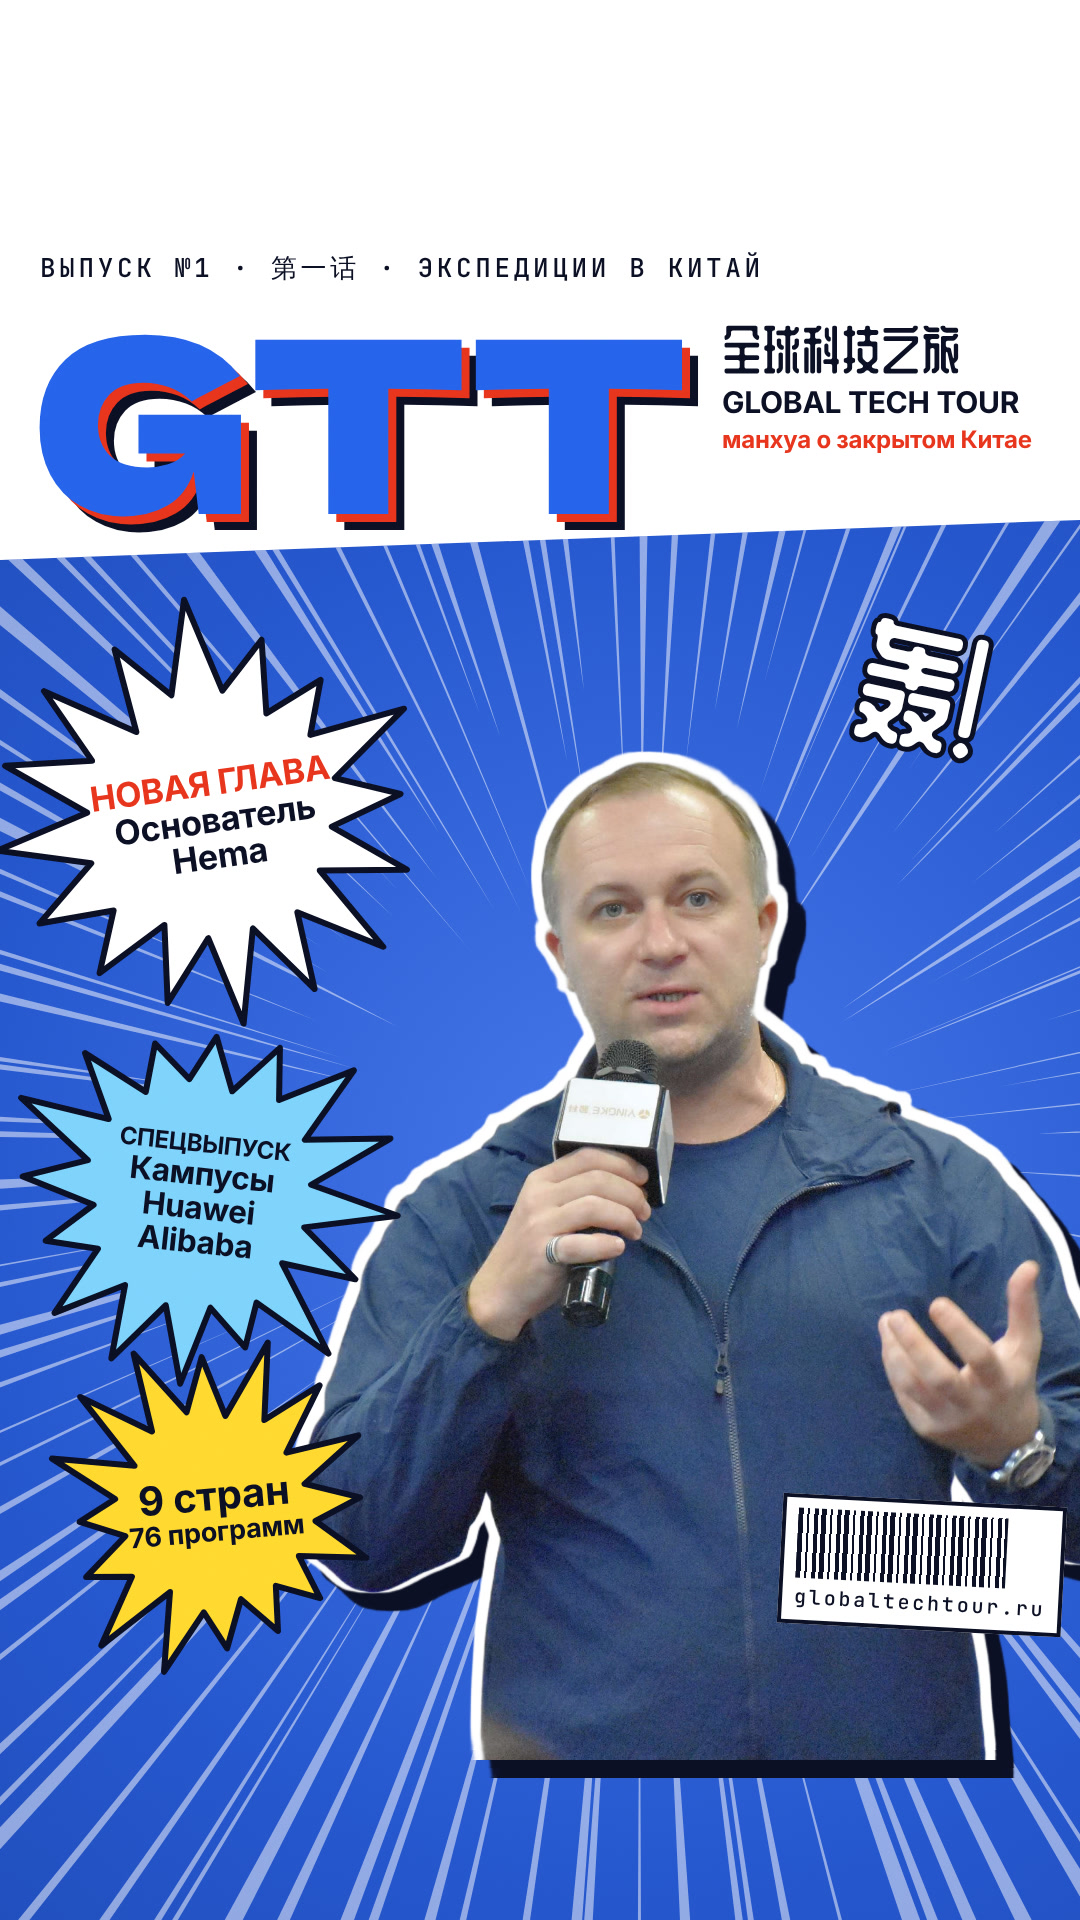
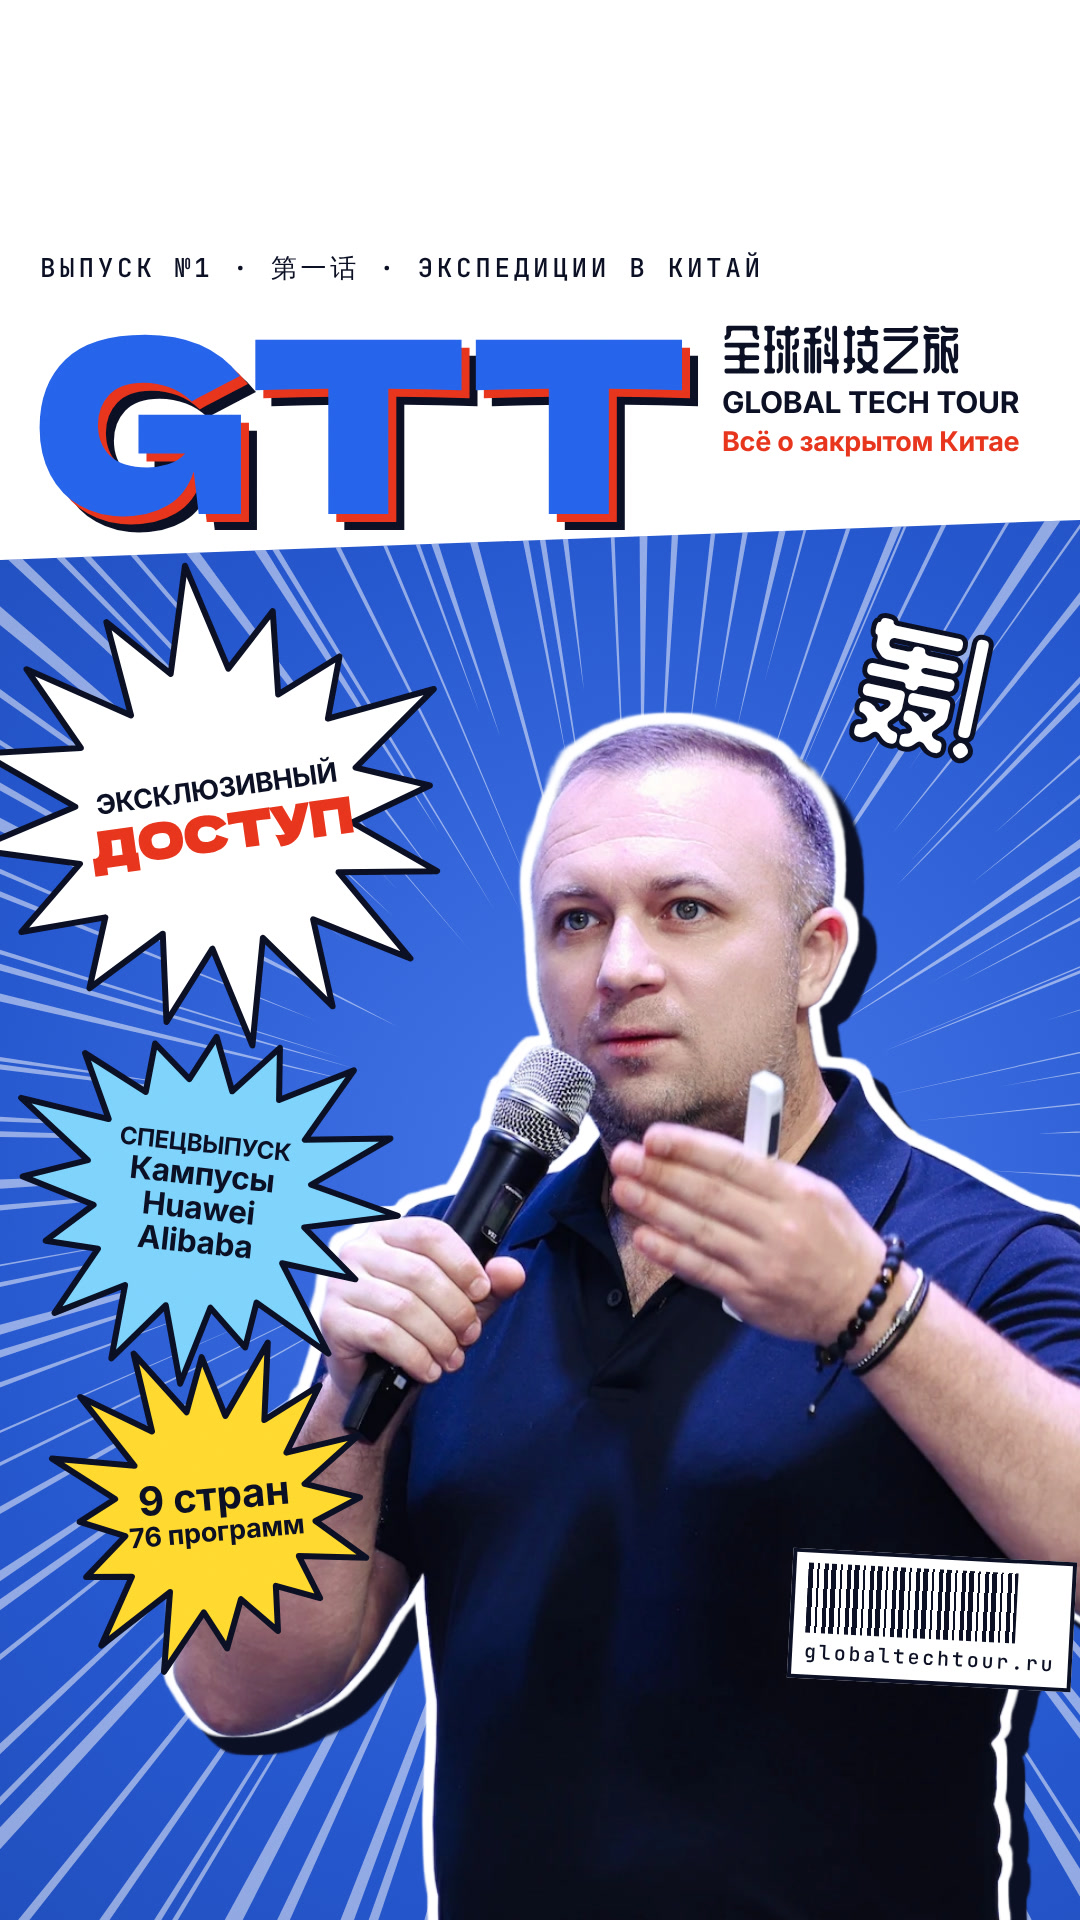
Обложка GTT-манхуа: вариант H с фото с микрофоном, «Эксклюзивный доступ», «Всё о закрытом Китае»
Claude-Session: https://claude.ai/code/session_01GWbvgKxue3PjjbbHEP4BVJ

diff --git a/reels-studio/src/compositions/ManhuaCovers.tsx b/reels-studio/src/compositions/ManhuaCovers.tsx
@@ -464,13 +464,14 @@ const GttMagazine: React.FC = () => (
     <div style={abs(722, 322, {width: 330, whiteSpace: "nowrap"})}>
       <div style={{fontFamily: FONT.zcool, fontSize: 52, color: G.ink, lineHeight: 1}}>全球科技之旅</div>
       <div style={{...inter(30, G.ink), marginTop: 10}}>GLOBAL TECH TOUR</div>
-      <div style={{...inter(24, G.red), marginTop: 6}}>манхуа о закрытом Китае</div>
+      <div style={{...inter(27, G.red), marginTop: 6}}>Всё о закрытом Китае</div>
     </div>
-    <Img src={staticFile(`${CUT}ostap-yingke-mikrofon.png`)} style={{position: "absolute", left: 300, top: 760, height: 1000, filter: `drop-shadow(10px 0 0 #fff) drop-shadow(-10px 0 0 #fff) drop-shadow(0 -10px 0 #fff) drop-shadow(18px 18px 0 ${G.ink})`}} />
-    <Blurb x={215} y={820} r={190} color="#fff" rot={-8} seed="b1"><span style={{color: G.red}}>НОВАЯ ГЛАВА</span><span>Основатель</span><span>Hema</span></Blurb>
+    {/* фото пользователя 04.11.2026 (выступление с микрофоном, закреп профиля); логотип площадки срезан вместе с низом кадра */}
+    <Img src={staticFile(`${CUT}ostap-megamarket-mikrofon.png`)} style={{position: "absolute", left: 170, top: 720, height: 1220, filter: `drop-shadow(10px 0 0 #fff) drop-shadow(-10px 0 0 #fff) drop-shadow(0 -10px 0 #fff) drop-shadow(18px 18px 0 ${G.ink})`}} />
+    <Blurb x={220} y={815} r={215} color="#fff" rot={-8} seed="b1"><span style={{fontSize: 27}}>ЭКСКЛЮЗИВНЫЙ</span><span style={dela(48, G.red, {lineHeight: 1.1})}>ДОСТУП</span></Blurb>
     <Blurb x={200} y={1195} r={175} color={G.sky} rot={6} seed="b2"><span style={{fontSize: 24}}>СПЕЦВЫПУСК</span><span>Кампусы</span><span>Huawei</span><span>Alibaba</span></Blurb>
     <Blurb x={215} y={1510} r={150} color="#FFD92E" rot={-5} seed="b3"><span style={{fontSize: 40}}>9 стран</span><span>76 программ</span></Blurb>
-    <div style={abs(780, 1500, {background: "#fff", border: `4px solid ${G.ink}`, padding: "10px 12px", rotate: "3deg"})}>
+    <div style={abs(790, 1555, {background: "#fff", border: `4px solid ${G.ink}`, padding: "10px 12px", rotate: "3deg"})}>
       <div style={{width: 210, height: 70, background: `repeating-linear-gradient(90deg, ${G.ink} 0 5px, transparent 5px 9px, ${G.ink} 9px 11px, transparent 11px 16px, ${G.ink} 16px 20px, transparent 20px 23px)`}} />
       <div style={{...mono(20, G.ink), marginTop: 6, textAlign: "center"}}>globaltechtour.ru</div>
     </div>

diff --git a/source-videos/фото-от-пользователя/остап/README.md b/source-videos/фото-от-пользователя/остап/README.md
@@ -6,3 +6,6 @@
 - `ostap-kostyum-vyrezka.png` — портрет в костюме со слайда «Кто организует экспедиции» основной презентации
   (`презентации/примеры/Main GTT.pdf`, стр. 8) без фона (BiRefNet, `scripts/cutout.py`), синяя дуга-декор стёрта,
   обрезан по грудь — 1070×1045, для презентаций в стиле GTT (15.10.2026).
+- `ostap-megamarket-mikrofon.jpg` — выступление с микрофоном (фото из закрепа профиля, прислал пользователь 04.11.2026), 1086×1386;
+  вырезка без фона — `вырезки/ostap-megamarket-mikrofon.png` (BiRefNet, `scripts/cutout.py --keep-largest`), кадр обрезан выше
+  логотипа площадки «мегамаркет» (он лежал поверх рубашки), 956×1092. Стоит на обложке GTT-манхуа H «Журнал».
